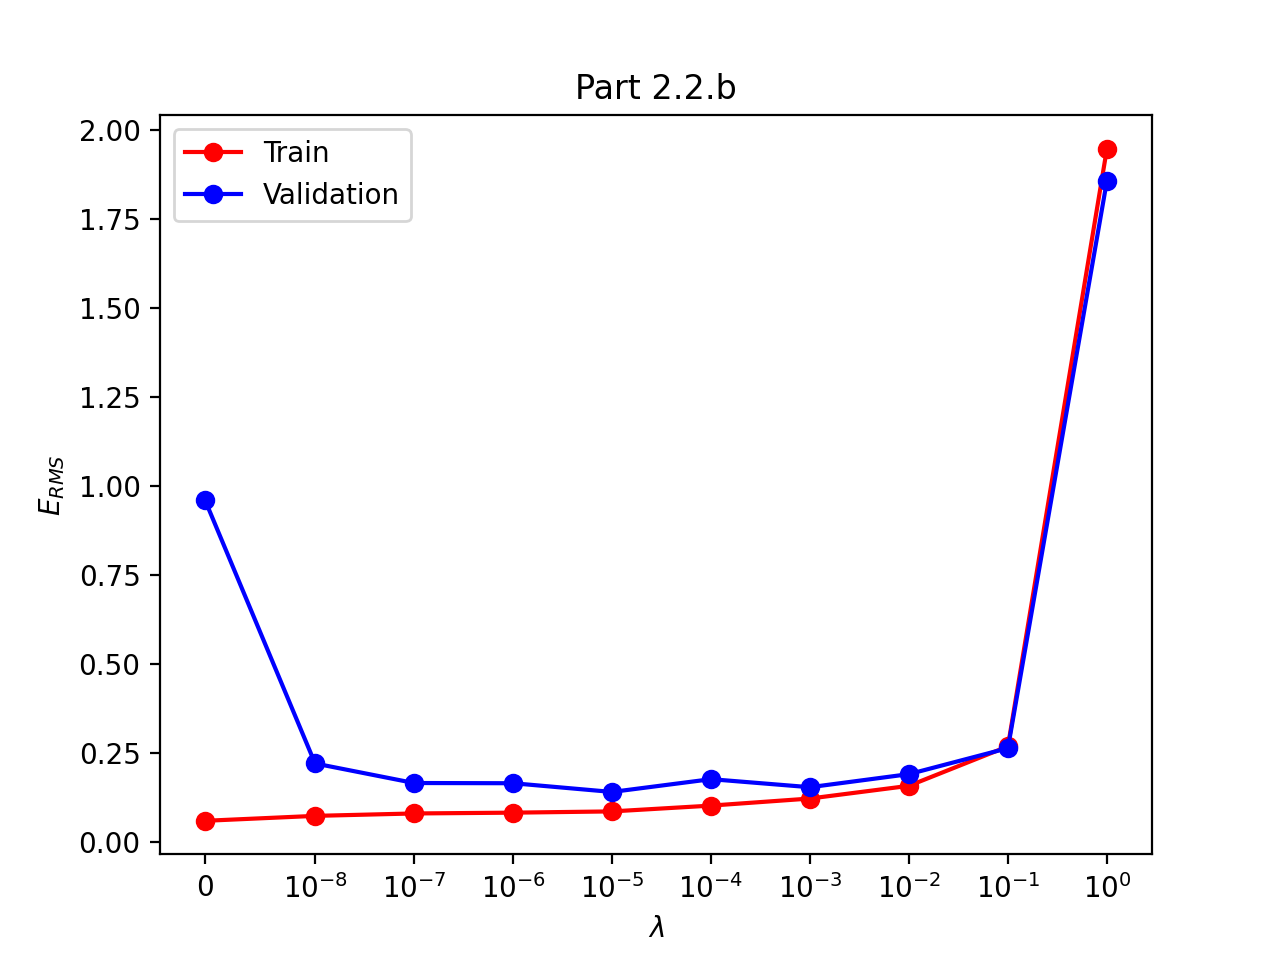
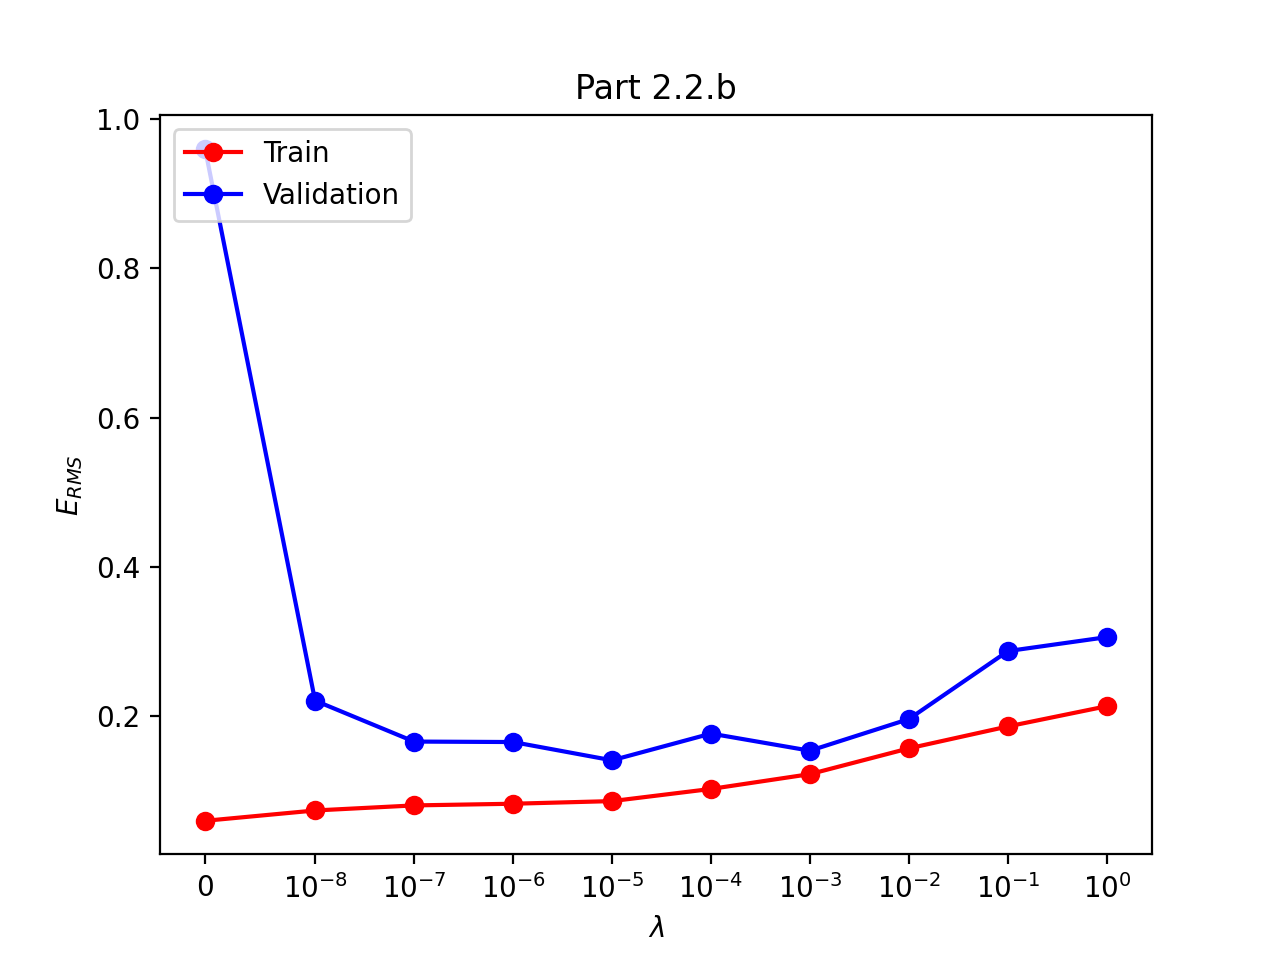
finished wtih assignment

diff --git a/Starter_Code/q2_linear_regression.py b/Starter_Code/q2_linear_regression.py
@@ -31,9 +31,11 @@ def calculate_RMS_Error(X, y, theta):
     E_rms = 0
     E_err = 0
     n = X.shape[0]
+    d = X.shape[1]
     for i in range(n):
-        E_err += (np.dot(theta, X[i]) - y[i])**2
-    E_rms = np.sqrt(E_err/n)
+        y_pred = np.dot(theta, X[i])
+        E_err += (y[i] - y_pred)**2
+    E_rms = np.sqrt((E_err/n)) 
     return E_rms
 
 
@@ -166,7 +168,7 @@ def closed_form_optimization(X, y, reg_param=0):
     d = X.shape[1]
     theta = np.zeros((d,))
 
-    theta = np.dot(np.dot(np.linalg.inv(np.dot(X.T, X) + np.identity(d) * reg_param), X.T), y) + (reg_param / 2)
+    theta = np.dot(np.dot(np.linalg.inv(np.dot(X.T, X) + (reg_param * np.identity(d))), X.T), y)
     return theta
 
 
@@ -223,21 +225,22 @@ def part_2_2(fname_train, fname_validation):
     errors_train = np.zeros((10,))
     errors_validation = np.zeros((10,))
     L = np.append([0], 10.0 ** np.arange(-8, 1))
+
     # Add your code here
     best_score = 10000000000000
     best_theta = 0
     for lam in L:
         temp_theta = closed_form_optimization(generate_polynomial_features(X_train, 10), y_train, lam)
-        temp_score = calculate_empirical_risk(generate_polynomial_features(X_train, 10), y_train, temp_theta)
-
+        temp_score = calculate_RMS_Error(generate_polynomial_features(X_train, 10), y_train, temp_theta)
         if(temp_score < best_score):
             best_score = temp_score
             best_theta = temp_theta
-
-    for i in range(10):
-        theta = closed_form_optimization(generate_polynomial_features(X_train, 10), y_train, L[i])
-        errors_train[i] = calculate_RMS_Error(generate_polynomial_features(X_train, 10), y_train, theta)
-        errors_validation[i] = calculate_RMS_Error(generate_polynomial_features(X_validation, 10), y_validation, theta)
+    
+    
+    for i in range(len(L)):
+        temp_theta = closed_form_optimization(generate_polynomial_features(X_train, 10), y_train, L[i])
+        errors_train[i] = calculate_RMS_Error(generate_polynomial_features(X_train, 10), y_train, temp_theta)
+        errors_validation[i] = calculate_RMS_Error(generate_polynomial_features(X_validation, 10), y_validation, temp_theta)
 
     plt.figure()
     plt.plot(L, errors_train, '-or', label='Train')
